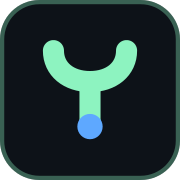
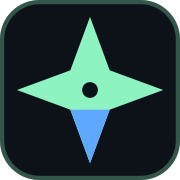
Adopt the Waypoint compass mark

Changed region(s): [[0.0833, 0.0833, 0.9167, 0.75], [0.4444, 0.75, 0.5556, 0.9167]]

diff --git a/assets/README.md b/assets/README.md
@@ -1,13 +1,16 @@
 # Brand assets
 
+The mark is a compass star: a mint bearing, a blue heading, and a transparent pivot. It comes from the older meaning of rutter, a book of routes for a voyage.
+
 | File | Use |
 | --- | --- |
 | `logo.svg` | Primary mark, 512×512 dark tile |
 | `logo-512.png` | Raster version for READMEs and previews |
-| `favicon.svg` | Scalable favicon |
+| `favicon.svg` | Scalable favicon, simplified and enlarged for small sizes |
 | `favicon.ico` | Legacy favicon with 16, 32, and 48 px images |
 | `favicon-16.png`, `favicon-32.png` | PNG favicon fallbacks |
 | `apple-touch-icon.png` | 180×180 iOS home-screen icon |
+| `build.sh` | Regenerates every PNG and the ICO from the two SVGs |
 
 ## HTML
 
@@ -23,7 +26,15 @@
 | --- | --- |
 | Tile top | `#121820` |
 | Tile bottom | `#080b0f` |
-| Route | `#c4ffdf` → `#56dda0` |
-| Node | `#5ea8ff` |
+| Bearing | `#8df3c0` |
+| Heading | `#5ea8ff` |
 
-The tile keeps the mark legible on both light and dark pages. Regenerate the PNG and ICO files with `rsvg-convert` after editing the SVG source.
+The tile keeps the mark legible on both light and dark pages. `favicon.svg` uses a larger star and a solid tile than `logo.svg` so it survives 16 px.
+
+## Rebuild
+
+```bash
+./build.sh
+```
+
+The script uses `rsvg-convert` for the PNGs and Python's standard library to assemble the ICO. The Python step has no third-party dependencies.
